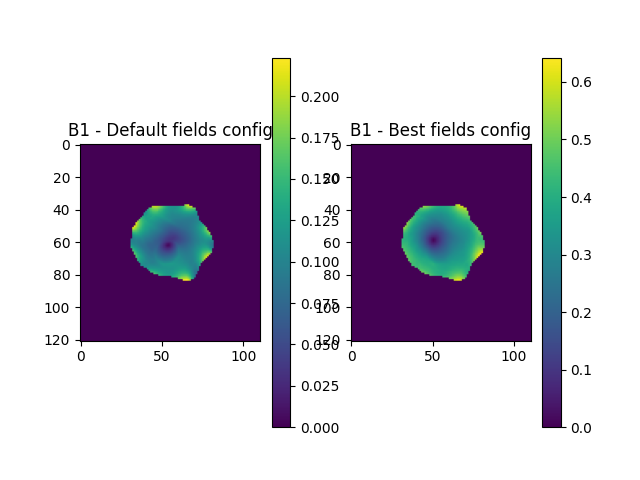
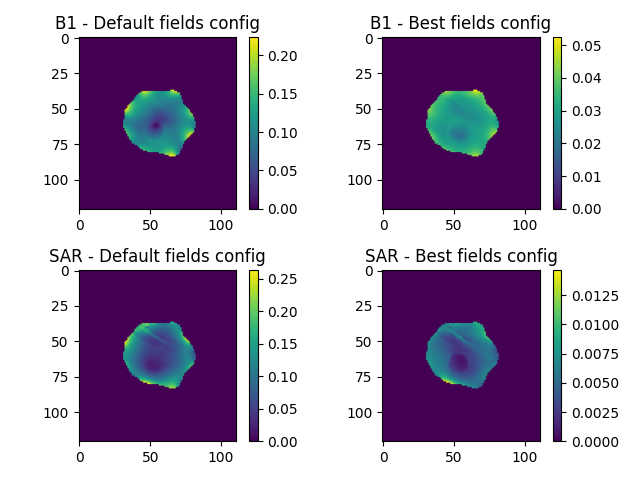
combined sar loss

diff --git a/src/costs/b1_sar_homogeneity_masked_borders.py b/src/costs/b1_sar_homogeneity_masked_borders.py
@@ -1,0 +1,61 @@
+from .base import BaseCost
+from ..data.simulation import SimulationData
+from ..data.utils import B1Calculator
+
+import torch
+
+def SAR(simulation_data):
+
+    E_field = simulation_data.field[0]
+    E_field_complex = E_field[0] + 1j*E_field[1]
+    E_field_abs = torch.abs(E_field_complex)
+    E_field_abs2 = E_field_abs[0]**2 + E_field_abs[1]**2 + E_field_abs[2]**2
+
+    # conductivity, permitivity, density
+    sigma = simulation_data.properties[0]
+    epsilon = simulation_data.properties[1]
+    rho = simulation_data.properties[2]
+
+    # get mask
+    mask = simulation_data.subject
+
+    SAR_3D = E_field_abs2 * sigma / rho * mask
+    SAR_max = torch.max(SAR_3D)
+
+    return SAR_3D, SAR_max
+
+#def find_borders():
+    #return
+
+
+class masked_borders_B1SARHomogeneityCost(BaseCost):
+    def __init__(self) -> None:
+        super().__init__()
+        self.direction = "maximize"
+        self.b1_calculator = B1Calculator()
+
+    def calculate_cost(self, simulation_data: SimulationData, simulation, return_B1 = False, return_SAR = False) -> float:
+
+        # Find borders
+        borders_mask = find_borders(simulation_data)
+
+        lambda_SAR = 1
+
+
+        b1_field = self.b1_calculator(simulation_data)
+        subject = simulation_data.subject
+        
+
+        SAR_3D, SAR_max = SAR(simulation_data)
+        SAR_max = torch.nn.Parameter(SAR_max)
+
+        b1_field_abs = torch.abs(b1_field)
+        b1_field_subject_voxels = b1_field_abs[subject]
+        b1_field_min = torch.min(b1_field_subject_voxels)
+        if return_B1 == False:
+            return torch.mean(b1_field_subject_voxels) / torch.std(b1_field_subject_voxels) - lambda_SAR * b1_field_min / torch.sqrt(SAR_max)
+        else:
+            if return_SAR == False:
+                return (torch.mean(b1_field_subject_voxels)/torch.std(b1_field_subject_voxels)) - lambda_SAR * SAR_max, b1_field_abs
+            else:
+                return (torch.mean(b1_field_subject_voxels)/torch.std(b1_field_subject_voxels)) - lambda_SAR * SAR_max, b1_field_abs, SAR_3D

diff --git a/src/costs/b1_sar_homogeneity.py b/src/costs/b1_sar_homogeneity.py
@@ -1,0 +1,55 @@
+from .base import BaseCost
+from ..data.simulation import SimulationData
+from ..data.utils import B1Calculator
+
+import torch
+
+def SAR(simulation_data):
+
+    E_field = simulation_data.field[0]
+    E_field_complex = E_field[0] + 1j*E_field[1]
+    E_field_abs = torch.abs(E_field_complex)
+    E_field_abs2 = E_field_abs[0]**2 + E_field_abs[1]**2 + E_field_abs[2]**2
+
+    # conductivity, permitivity, density
+    sigma = simulation_data.properties[0]
+    epsilon = simulation_data.properties[1]
+    rho = simulation_data.properties[2]
+
+    # get mask
+    mask = simulation_data.subject
+
+    SAR_3D = E_field_abs2 * sigma / rho * mask
+    SAR_max = torch.max(SAR_3D)
+
+    return SAR_3D, SAR_max
+
+
+class B1SARHomogeneityCost(BaseCost):
+    def __init__(self) -> None:
+        super().__init__()
+        self.direction = "maximize"
+        self.b1_calculator = B1Calculator()
+
+    def calculate_cost(self, simulation_data: SimulationData, simulation, return_B1 = False, return_SAR = False) -> float:
+
+        lambda_SAR = 1
+
+
+        b1_field = self.b1_calculator(simulation_data)
+        subject = simulation_data.subject
+        
+
+        SAR_3D, SAR_max = SAR(simulation_data)
+        SAR_max = torch.nn.Parameter(SAR_max)
+
+        b1_field_abs = torch.abs(b1_field)
+        b1_field_subject_voxels = b1_field_abs[subject]
+        b1_field_min = torch.min(b1_field_subject_voxels)
+        if return_B1 == False:
+            return torch.mean(b1_field_subject_voxels) / torch.std(b1_field_subject_voxels) - lambda_SAR * b1_field_min / torch.sqrt(SAR_max)
+        else:
+            if return_SAR == False:
+                return (torch.mean(b1_field_subject_voxels)/torch.std(b1_field_subject_voxels)) - lambda_SAR * SAR_max, b1_field_abs
+            else:
+                return (torch.mean(b1_field_subject_voxels)/torch.std(b1_field_subject_voxels)) - lambda_SAR * SAR_max, b1_field_abs, SAR_3D

diff --git a/evaluation.py b/evaluation.py
@@ -1,6 +1,6 @@
 from main import run
 
-from src.costs import B1HomogeneityCost
+from src.costs import B1HomogeneityCost, B1SARHomogeneityCost, masked_borders_B1SARHomogeneityCost
 from src.data import Simulation
 from src.utils import evaluate_coil_config
 import plot_final_results as group3_plt
@@ -13,20 +13,24 @@ if __name__ == "__main__":
     simulation = Simulation("data/simulations/children_3_tubes_10_id_6299.h5")
     
     # Define cost function
-    cost_function = B1HomogeneityCost()
+    #cost_function = B1HomogeneityCost()
+    cost_function = B1SARHomogeneityCost()
     
     # Run optimization
     best_coil_config = run(simulation=simulation, cost_function=cost_function)
     
+    #cost_function = masked_borders_B1SARHomogeneityCost()
+    #best_coil_config = run(simulation=simulation, cost_function=cost_function, start_config = best_coil_config)
+    
     # Evaluate best coil configuration
     #result = evaluate_coil_config(best_coil_config, simulation, cost_function)
-    result, B1plus_map_default, B1plus_map_bestConfig = evaluate_coil_config(best_coil_config, simulation, cost_function, return_B1 = True)
+    result, B1plus_map_default, B1plus_map_bestConfig, SAR_default, SAR_best_config = evaluate_coil_config(best_coil_config, simulation, cost_function)
 
 
     # Save results to JSON file
     with open("results.json", "w") as f:
         json.dump(result, f, indent=4)
 
-    group3_plt.plot_final_results(B1plus_map_default, B1plus_map_bestConfig, simulation)
+    group3_plt.plot_final_results(B1plus_map_default, B1plus_map_bestConfig, SAR_default, SAR_best_config, simulation)
 
     print("end")

diff --git a/plot_final_results.py b/plot_final_results.py
@@ -1,6 +1,6 @@
 import matplotlib.pyplot as plt
 
-def plot_final_results(B1plus_map_default, B1plus_map_bestConfig, simulation):
+def plot_final_results(B1plus_map_default, B1plus_map_bestConfig, SAR_default, SAR_bestConfig, simulation):
 
     # Plot the results:  I add a flag to the evaluation function to return the 3D B1+ map
     # Compute B1 map with new config
@@ -8,20 +8,37 @@ def plot_final_results(B1plus_map_default, B1plus_map_bestConfig, simulation):
     B1plus_map_default = B1plus_map_default.detach().numpy()
     B1plus_map_bestConfig = B1plus_map_bestConfig.detach().numpy()
 
+    SAR_default = SAR_default.detach().numpy()
+    SAR_bestConfig = SAR_bestConfig.detach().numpy()
+
     mask = simulation.simulation_raw_data.subject[:,:,64].detach().numpy()
 
     plt.figure()
-    plt.subplot(1,2,1)
+    plt.subplot(2,2,1)
     plt.imshow(B1plus_map_default[:,:,64]*mask)
     plt.title("B1 - Default fields config")
     plt.colorbar()
     #plt.show()
 
-    plt.subplot(1,2,2)
+    plt.subplot(2,2,2)
     plt.imshow(B1plus_map_bestConfig[:,:,64]*mask)
     plt.title("B1 - Best fields config")
     plt.colorbar()
+
+
+    plt.subplot(2,2,3)
+    plt.imshow(SAR_default[:,:,64]*mask)
+    plt.title("SAR - Default fields config")
+    plt.colorbar()
     #plt.show()
+
+    plt.subplot(2,2,4)
+    plt.imshow(SAR_bestConfig[:,:,64]*mask)
+    plt.title("SAR - Best fields config")
+    plt.colorbar()
+    #plt.show()
+
+    plt.tight_layout()
 
     plt.savefig("results.png")
 

diff --git a/src/utils.py b/src/utils.py
@@ -19,7 +19,8 @@ def to_jsonable(value):
 def evaluate_coil_config(coil_config: CoilConfig, 
                          simulation: Simulation,
                          cost_function: BaseCost,
-                         return_B1 = False) -> Dict[str, Any]:
+                         return_B1 = True,
+                         return_SAR = True) -> Dict[str, Any]:
     """
     Evaluates the coil configuration using the cost function.
 
@@ -37,8 +38,8 @@ def evaluate_coil_config(coil_config: CoilConfig,
     simulation_data_default = simulation(default_coil_config)
 
     # Calculate cost for both configurations
-    default_coil_config_cost, B1map_default = cost_function(simulation_data_default, simulation, return_B1 = return_B1)
-    best_coil_config_cost, B1map_bestConfig = cost_function(simulation_data, simulation, return_B1 = return_B1)
+    default_coil_config_cost, B1map_default, SAR_default = cost_function(simulation_data_default, simulation, return_B1 = return_B1, return_SAR = return_SAR)
+    best_coil_config_cost, B1map_bestConfig, SAR_bestConfig = cost_function(simulation_data, simulation, return_B1 = return_B1, return_SAR = return_SAR)
 
 
     # Cost improvements
@@ -59,4 +60,4 @@ def evaluate_coil_config(coil_config: CoilConfig,
         "simulation_data": simulation_data.simulation_name,
     }
 
-    return result, B1map_default, B1map_bestConfig
+    return result, B1map_default, B1map_bestConfig, SAR_default, SAR_bestConfig

diff --git a/src/costs/b1_homogeneity.py b/src/costs/b1_homogeneity.py
@@ -11,7 +11,7 @@ class B1HomogeneityCost(BaseCost):
         self.direction = "maximize"
         self.b1_calculator = B1Calculator()
 
-    def calculate_cost(self, simulation_data: SimulationData, simulation, return_B1 = False) -> float:
+    def calculate_cost(self, simulation_data: SimulationData, simulation, return_B1 = False, return_SAR = False) -> float:
         b1_field = self.b1_calculator(simulation_data)
         subject = simulation_data.subject
 
@@ -20,4 +20,7 @@ class B1HomogeneityCost(BaseCost):
         if return_B1 == False:
             return torch.mean(b1_field_subject_voxels) / torch.std(b1_field_subject_voxels)
         else:
-            return (torch.mean(b1_field_subject_voxels)/torch.std(b1_field_subject_voxels)), b1_field_abs
+            if return_SAR == False:
+                return (torch.mean(b1_field_subject_voxels)/torch.std(b1_field_subject_voxels)), b1_field_abs
+            else:
+                return (torch.mean(b1_field_subject_voxels)/torch.std(b1_field_subject_voxels)), b1_field_abs, 0

diff --git a/src/costs/base.py b/src/costs/base.py
@@ -6,8 +6,8 @@ class BaseCost(ABC):
         self.direction = "minimize"
         assert self.direction in ["minimize", "maximize"], f"Invalid direction: {self.direction}"
         
-    def __call__(self, simulation_data: SimulationData, simulation, return_B1 = False) -> float:
-        return self.calculate_cost(simulation_data, simulation, return_B1)
+    def __call__(self, simulation_data: SimulationData, simulation, return_B1 = False, return_SAR = False) -> float:
+        return self.calculate_cost(simulation_data, simulation, return_B1, return_SAR)
 
     @abstractmethod
     def calculate_cost(self, simulation_data: SimulationData, simulation = 0) -> float:

diff --git a/src/optimizers/torch_optimizer.py b/src/optimizers/torch_optimizer.py
@@ -22,6 +22,16 @@ class TorchOptimizer(BaseOptimizer):
         phase = torch.rand(8, requires_grad=True, dtype=torch.double)
         amplitude = torch.rand(8, requires_grad=True, dtype=torch.double)
 
+        # cp init
+        phase = torch.ones((8), requires_grad=True, dtype=torch.double)
+        amplitude = torch.ones((8), requires_grad=True, dtype=torch.double)
+
+        with torch.no_grad():
+            amplitude[:] = 1. / np.sqrt(8.)
+            for i in range(8):
+                phase[i] = torch.pi / 4.* i
+
+
         # Define the optimizer and pass the parameters
         optimizer = self.optimizer_class([phase, amplitude], lr=self.lr)
 

diff --git a/src/costs/__init__.py b/src/costs/__init__.py
@@ -1,2 +1,4 @@
 from .b1_homogeneity import B1HomogeneityCost
+from .b1_sar_homogeneity import B1SARHomogeneityCost
 from .b1_homogeneity_minmax import B1HomogeneityMinMaxCost
+from .b1_sar_homogeneity_masked_borders import masked_borders_B1SARHomogeneityCost
